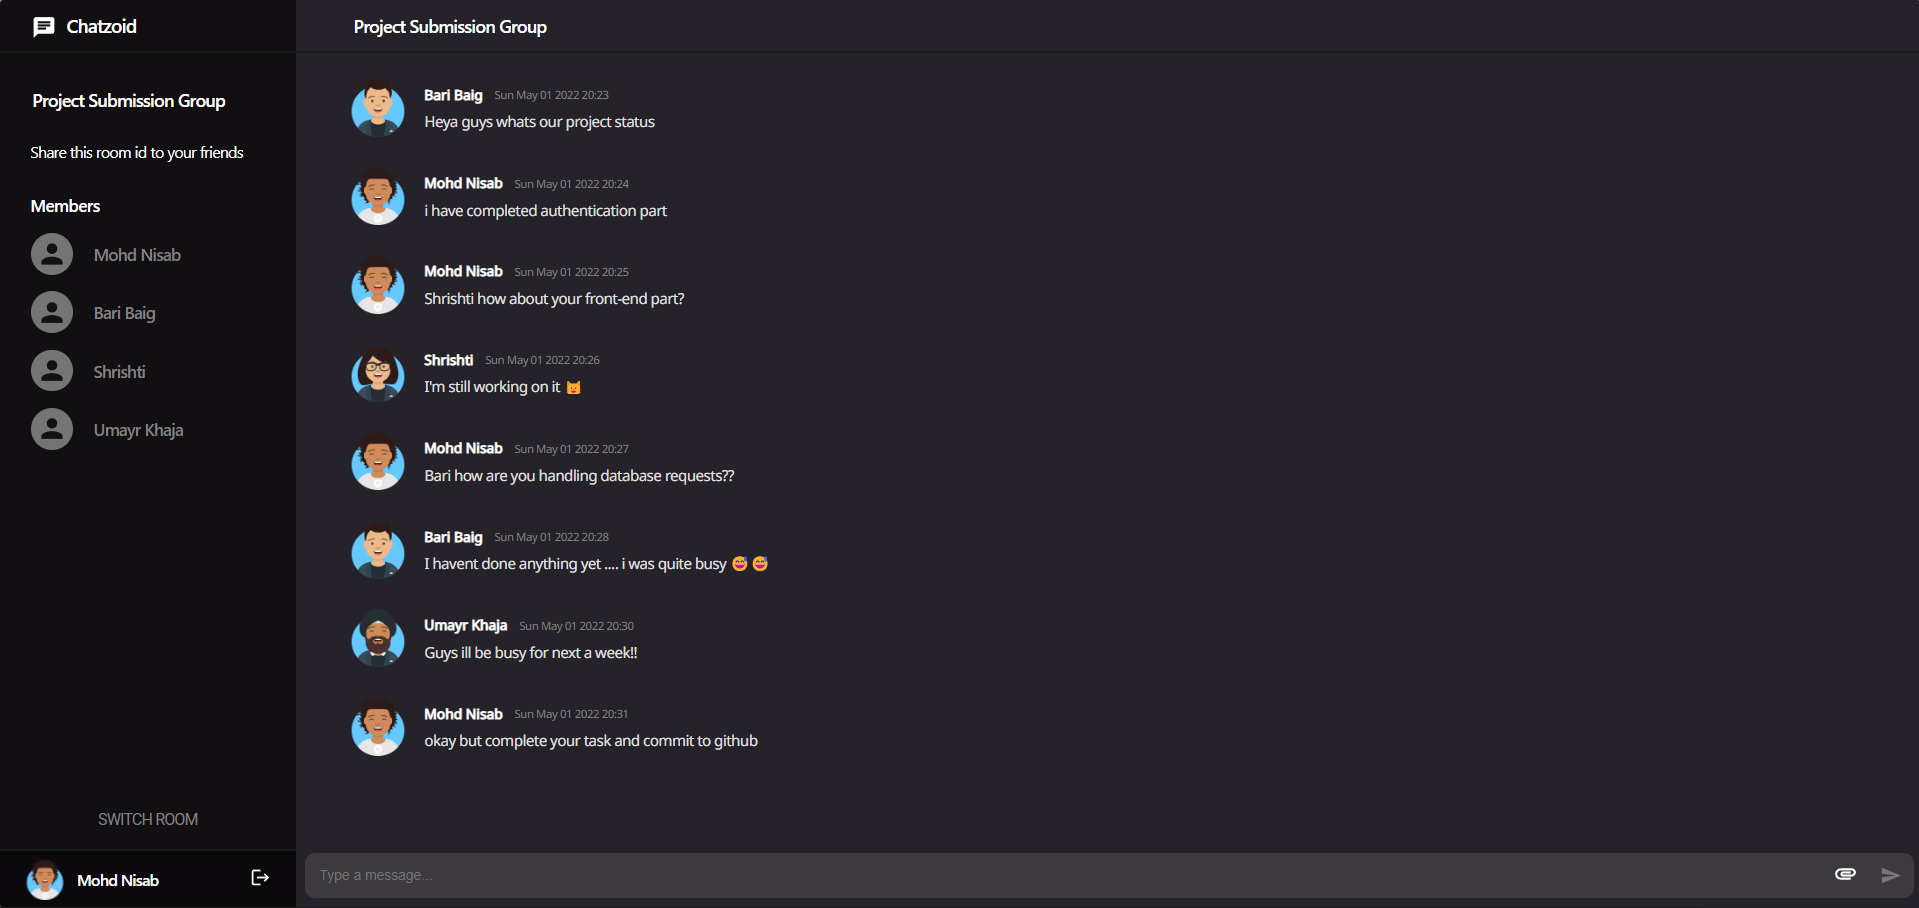
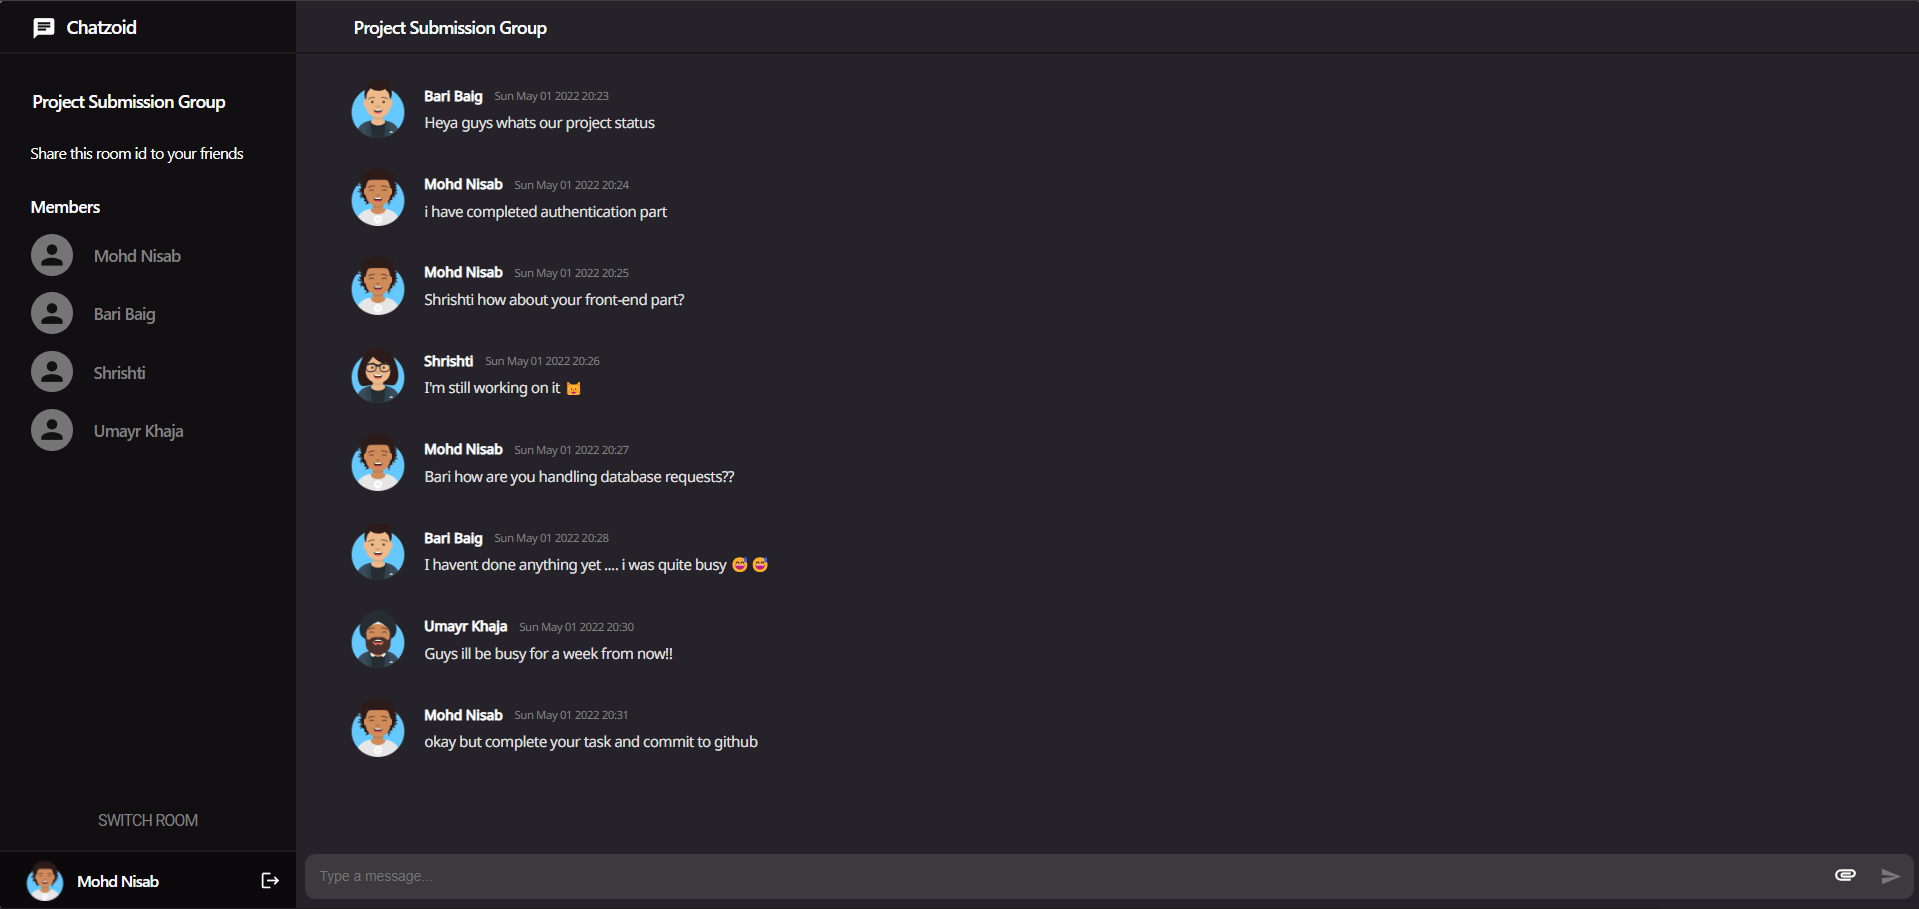
logout btn fixed

diff --git a/src/Leftbar.js b/src/Leftbar.js
@@ -94,7 +94,7 @@ export const Leftbar = (props) => {
         <div className="userdetails" style={{ marginTop: 'auto', display: 'flex', flexDirection: 'row', alignItems: 'center', position: 'absolute', bottom: '0px', height: '55px', backgroundColor: '#0B090C', width: '100%', borderTop: '2px solid rgb(26,26,26)' }}>
           <img src={props.photo} style={{ width: '38px', height: '40px', borderRadius: '7px', marginLeft: '24px' }} alt="" />
           <h5 style={{ marginLeft: '12px', color: 'white', font: 'Noto Sans', fontWeight: '500', fontStyle: 'normal', fontSize: '15px', letterSpacing: '-0.035em', zIndex: '99' }}>{props.name}</h5>
-          <button onClick={() => { props.logout(); }} style={{ cursor: 'pointer', width: '100%', marginLeft: '79px', outline: 'none', border: 'none', backgroundColor: 'transparent', position: 'absolute', left: '29px' }}><LogoutIcon style={{ width: '20px', color: 'white' }}></LogoutIcon></button>
+          <button onClick={() => { props.logout(); }} style={{ cursor: 'pointer', width: 'fit-content%', marginLeft: '221px', outline: 'none', border: 'none', backgroundColor: 'transparent', position: 'absolute', left: '29px',marginTop:'4px' }}><LogoutIcon style={{ width: '20px', color: 'white' }}></LogoutIcon></button>
         </div>
       </div>
     </>
